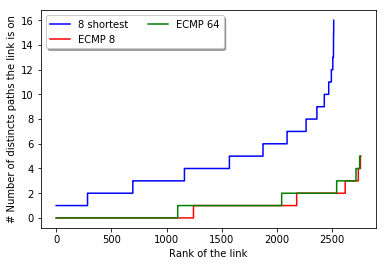
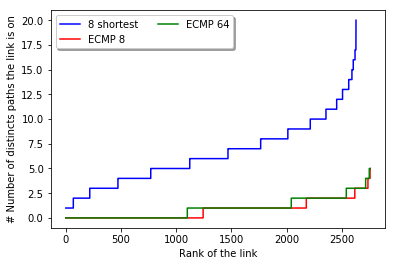
Fix group bug

diff --git a/eightshortestpaths.py b/eightshortestpaths.py
@@ -10,56 +10,46 @@ import numpy as np
 def k_shortest_paths(G, source, target, k, weight=None):
     return list(islice(nx.shortest_simple_paths(G, source, target, weight=weight), k))
 
-def group(lst, n):
-    """group([0,3,4,10,2,3], 2) => iterator
+def get_results():
+    # each rack has k-r ports available for servers
 
-    Group an iterable into an n-tuples iterable. Incomplete tuples
-    are discarded e.g.
+    # Degree of each node, Number of Nodes
+    G = nx.random_regular_graph(12, 220)
+    n_servers = 686
 
-    >>> list(group(range(10), 3))
-    [(0, 1, 2), (3, 4, 5), (6, 7, 8)]
-    """
-    return zip(*[itertools.islice(lst, i, None, n) for i in range(n)])
+    # id of link is (a,b), where a and b are routers
+    links = Counter()
 
-# each rack has k-r ports available for servers
+    n_switches = len(G.nodes())
 
-# Degree of each node, Number of Nodes
-G = nx.random_regular_graph(12, 220)
-n_servers = 686
+    servers = []
+    for i in range(0, n_servers):
+        servers.append((i, np.random.randint(0,high=n_switches)))
 
-# id of link is (a,b), where a and b are routers
-links = Counter()
+    send_assignments = np.random.choice(list(range(0,n_servers)), n_servers, replace=False)
 
-n_switches = len(G.nodes())
+    # no one send to themselves
+    for i in range(0,len(send_assignments)):
+        if send_assignments[i] == i:
+            temp = send_assignments[i-1]
+            send_assignments[i-1] = send_assignments[i]
+            send_assignments[i] = temp
 
-servers = []
-for i in range(0, n_servers):
-    servers.append((i, np.random.randint(0,high=n_switches)))
+    for i, server in enumerate(servers):
+        source = server[1]
+        target = servers[send_assignments[i]][1]
+        paths = k_shortest_paths(G, source, target, 8)
+        up = []
+        for path in paths:
+            up += [grp for grp in zip(path[:-1], path[1:])]
+        links.update(up)
 
-send_assignments = np.random.choice(list(range(0,n_servers)), n_servers, replace=False)
-
-# no one send to themselves
-for i in range(0,len(send_assignments)):
-    if send_assignments[i] == i:
-        temp = send_assignments[i-1]
-        send_assignments[i-1] = send_assignments[i]
-        send_assignments[i] = temp
-
-for i, server in enumerate(servers):
-    source = server[1]
-    target = servers[send_assignments[i]][1]
-    paths = k_shortest_paths(G, source, target, 8)
-    up = []
-    for path in paths:
-        up += [grp for grp in group(path,2)]
-    links.update(up)
-
-ysorted = links.most_common()
-ysorted.reverse()
-y = [val[1] for val in ysorted]
-x = np.arange(1,len(links.most_common())+1)
-
-# plt.plot(x, y)
-# plt.xlabel('Rank of link')
-# plt.ylabel('# distinct paths through link')
-# plt.show()
+    ysorted = links.most_common()
+    ysorted.reverse()
+    y = [val[1] for val in ysorted]
+    x = np.arange(1,len(links.most_common())+1)
+    return (x,y)
+    # plt.plot(x, y)
+    # plt.xlabel('Rank of link')
+    # plt.ylabel('# distinct paths through link')
+    # plt.show()
